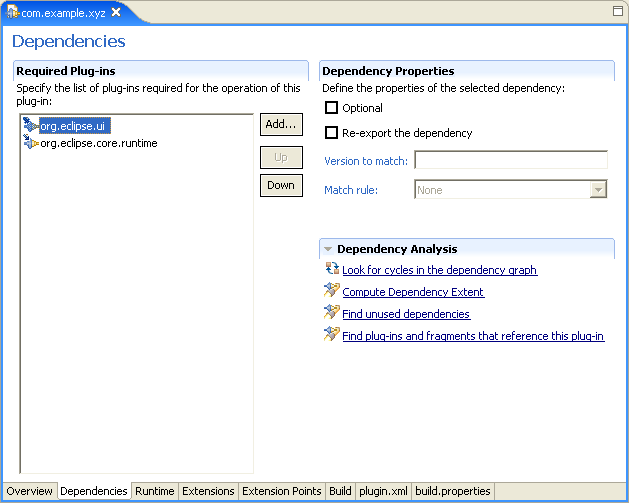
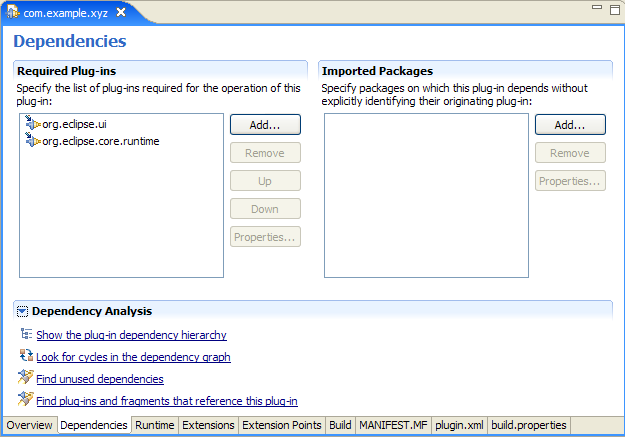
*** empty log message ***

Changed region(s): [[0.0, 0.0, 1.0, 1.0], [0.5168, 0.357, 0.608, 0.3867]]

diff --git a/bundles/org.eclipse.pde.doc.user/guide/pde_manifest_dependencies.htm b/bundles/org.eclipse.pde.doc.user/guide/pde_manifest_dependencies.htm
@@ -10,28 +10,29 @@
 <BODY BGCOLOR="#ffffff">
 
 <h2>Dependencies page</h2>
-<p>The Dependencies page shows the dependencies that your plug-in has on other
-plug-ins.&nbsp; You must list on this page all the plug-ins that contribute code 
-required on your plug-in project's classpath to compile.&nbsp;&nbsp; You must 
-also list all plug-ins that contribute extension points that your plug-in uses.&nbsp; 
-When you modify the list of dependencies and save the file, PDE will 
-automatically update your classpath.</p>
+<p>The <strong>Dependencies</strong> page shows the dependencies that your plug-in 
+  has on other plug-ins.&nbsp; You must list on this page all the plug-ins that 
+  contribute code required on your plug-in project's classpath to compile.&nbsp;&nbsp; 
+  When you modify the list of dependencies and save the file, PDE will automatically 
+  update your classpath.</p>
 <p align="center">
 <img border="0" src="images/plugin-dependencies.png" alt="Dependencies editor page" ></p>
-<p align="left">
-&nbsp;</p>
-<p align="left">
-Note that the order of the plug-ins in the list is important because it dictates 
-the classloading order at runtime, so use the Up and Down buttons to organize 
-the list as appropriate.</p>
-<p align="left">When you select an entry in the list of required plug-ins, you
-can mark the dependency as re-exported in the <b>Dependency Properties</b> section.&nbsp; 
-Re-exporting a dependency means that clients of your plug-in will get that 
-dependency for free.&nbsp; It is important that you do not abuse this 
-functionality and use it only when it makes sense to do so.</p>
-<p align="left">If your plug-in requires a specific version of a plug-in to 
-function properly, then you can specify the version required along with the 
-version match rule.&nbsp; You can read more about valid values in the Platform ISV guide.</p>
+<p align="left">&nbsp;
+</p>
+<p align="left"> Note that the order of the plug-ins in the list is important 
+  because it dictates the classloading order at runtime, so use the <strong>Up</strong> 
+  and <strong>Down</strong> buttons to organize the list as appropriate.</p>
+<p align="left">A plug-in listed in the <strong>Required Plug-ins</strong> section 
+  can be marked as re-exported in its Properties dialog.&nbsp; Re-exporting a 
+  dependency means that clients of your plug-in will get that dependency for free.&nbsp; 
+  It is important that you do not abuse this functionality and use it only when 
+  it makes sense to do so.</p>
+<p align="left">If your plug-in requires a specific version of a plug-in to function 
+  properly, then you can specify the version required along with the version match 
+  rule.&nbsp; You can read more about valid values in the Platform ISV guide.</p>
+<p align="left">The Eclipse runtime gives the flexibility to declare a dependency 
+  on a package without explicitly identifying its originating plug-in. These packages 
+  are listed in the <strong>Imported Packages</strong> section.</p>
 <p align="left">The <b>Dependency Analysis</b> contain several useful features 
 such as finding cycles in the dependency graph.&nbsp; Such cycles are forbidden 
 by the runtime, making the analysis useful for performing a sanity check on your plug-in's 
